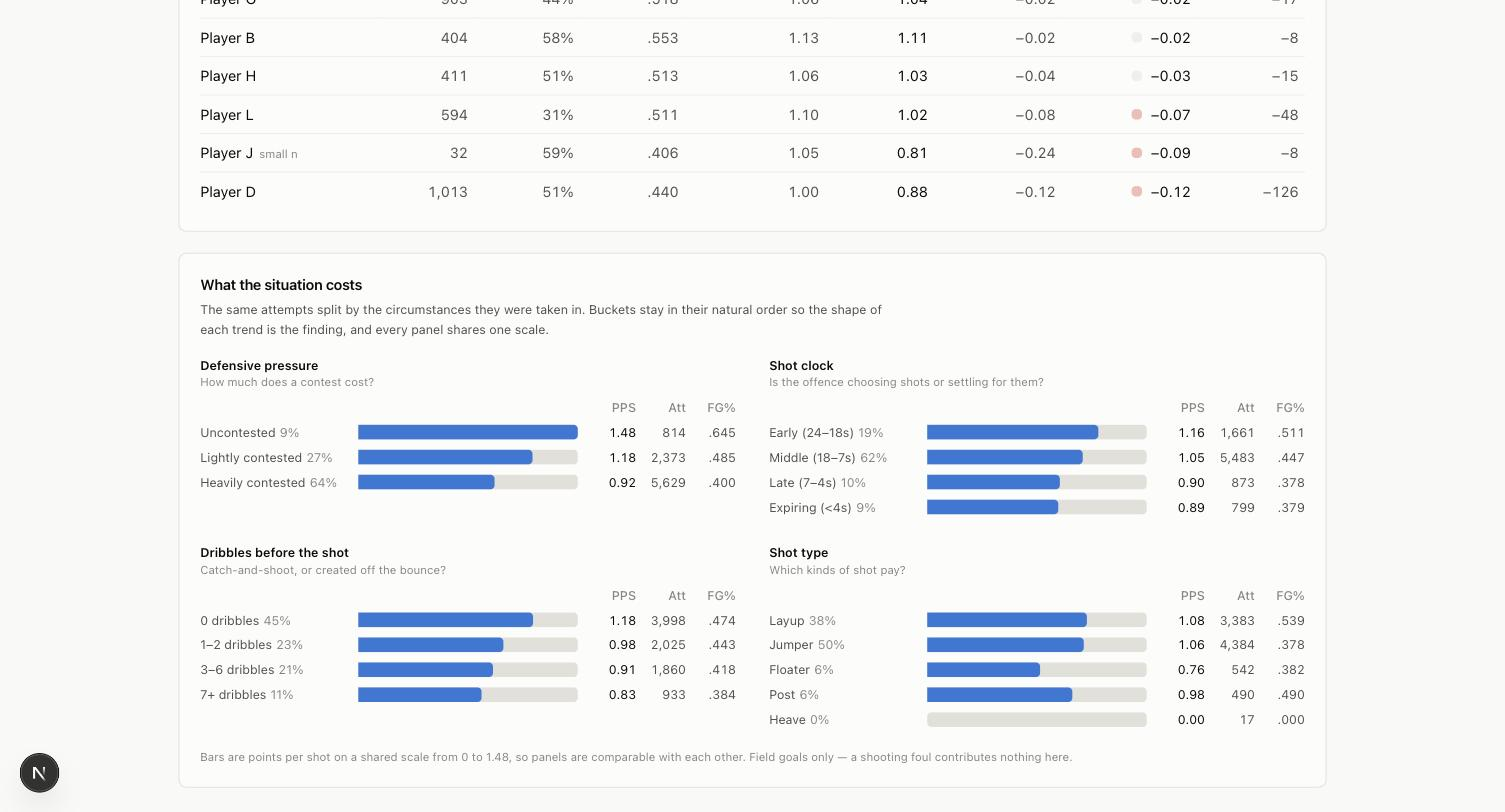
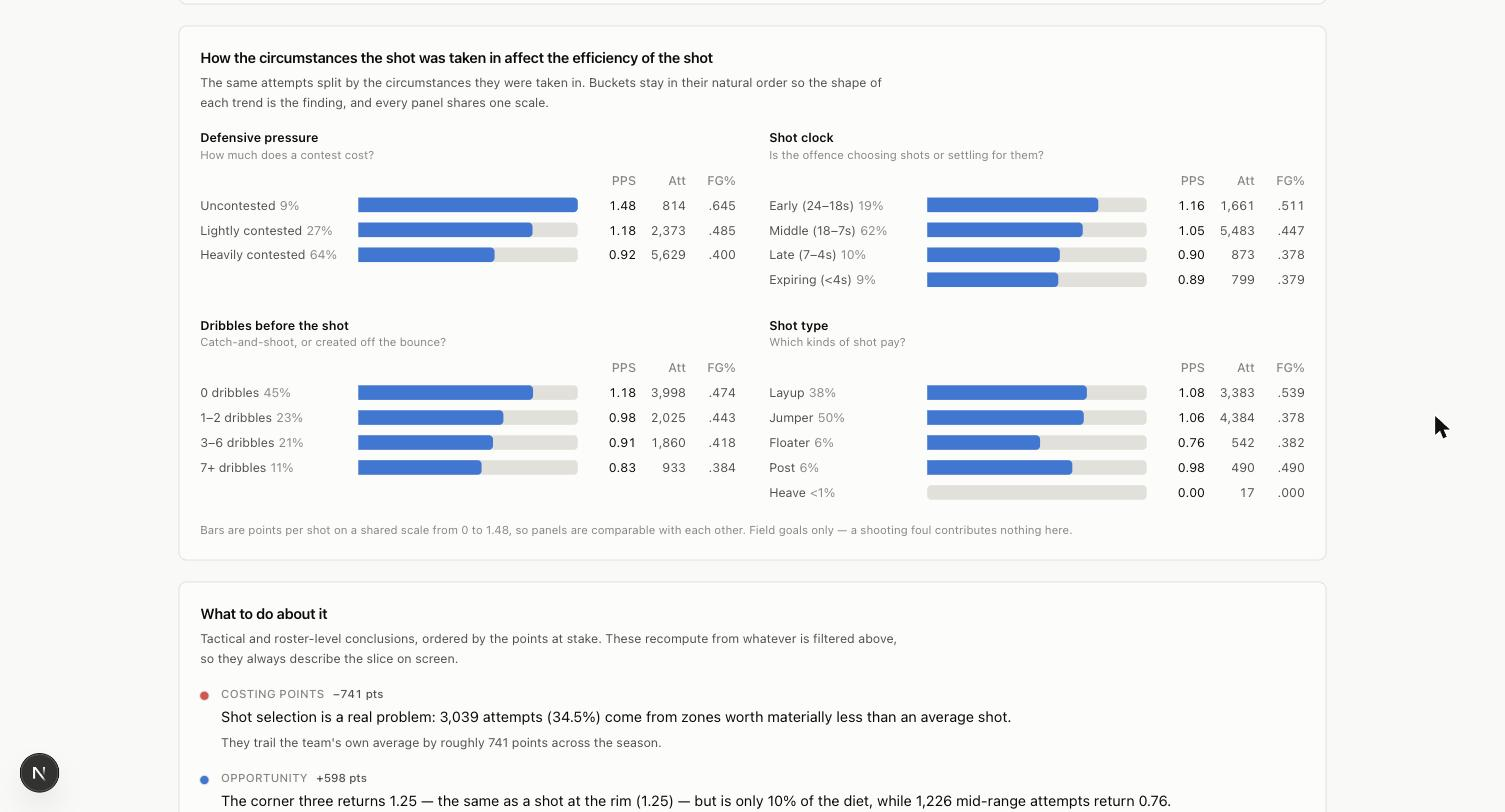
Retitle the context-breakdown card
"How the circumstances the shot was taken in affect the efficiency of the
shot", replacing "What the situation costs". Applied to the README heading
and both of the card's screenshots.

Uses "affect" for the same reason as the pass-origin card, and in the
plural to agree with "circumstances".

diff --git a/src/components/dashboard.tsx b/src/components/dashboard.tsx
@@ -358,7 +358,7 @@ function DashboardContent({ dataset }: { dataset: ShotDataset }) {
 
           <ViewErrorBoundary name="Context breakdown">
             <Card
-              title="What the situation costs"
+              title="How the circumstances the shot was taken in affect the efficiency of the shot"
               description={
                 <>
                   The same attempts split by the circumstances they were taken in.

diff --git a/README.md b/README.md
@@ -88,7 +88,7 @@ difference. Sorting by the raw difference instead drops the 32-attempt player to
 last place — which makes the case for shrinkage visible in one click instead of
 asking the reader to trust a footnote.
 
-### 3. What the situation costs
+### 3. How the circumstances the shot was taken in affect the efficiency of the shot
 
 ![Context breakdown](docs/screenshots/04-context.jpg)
 
